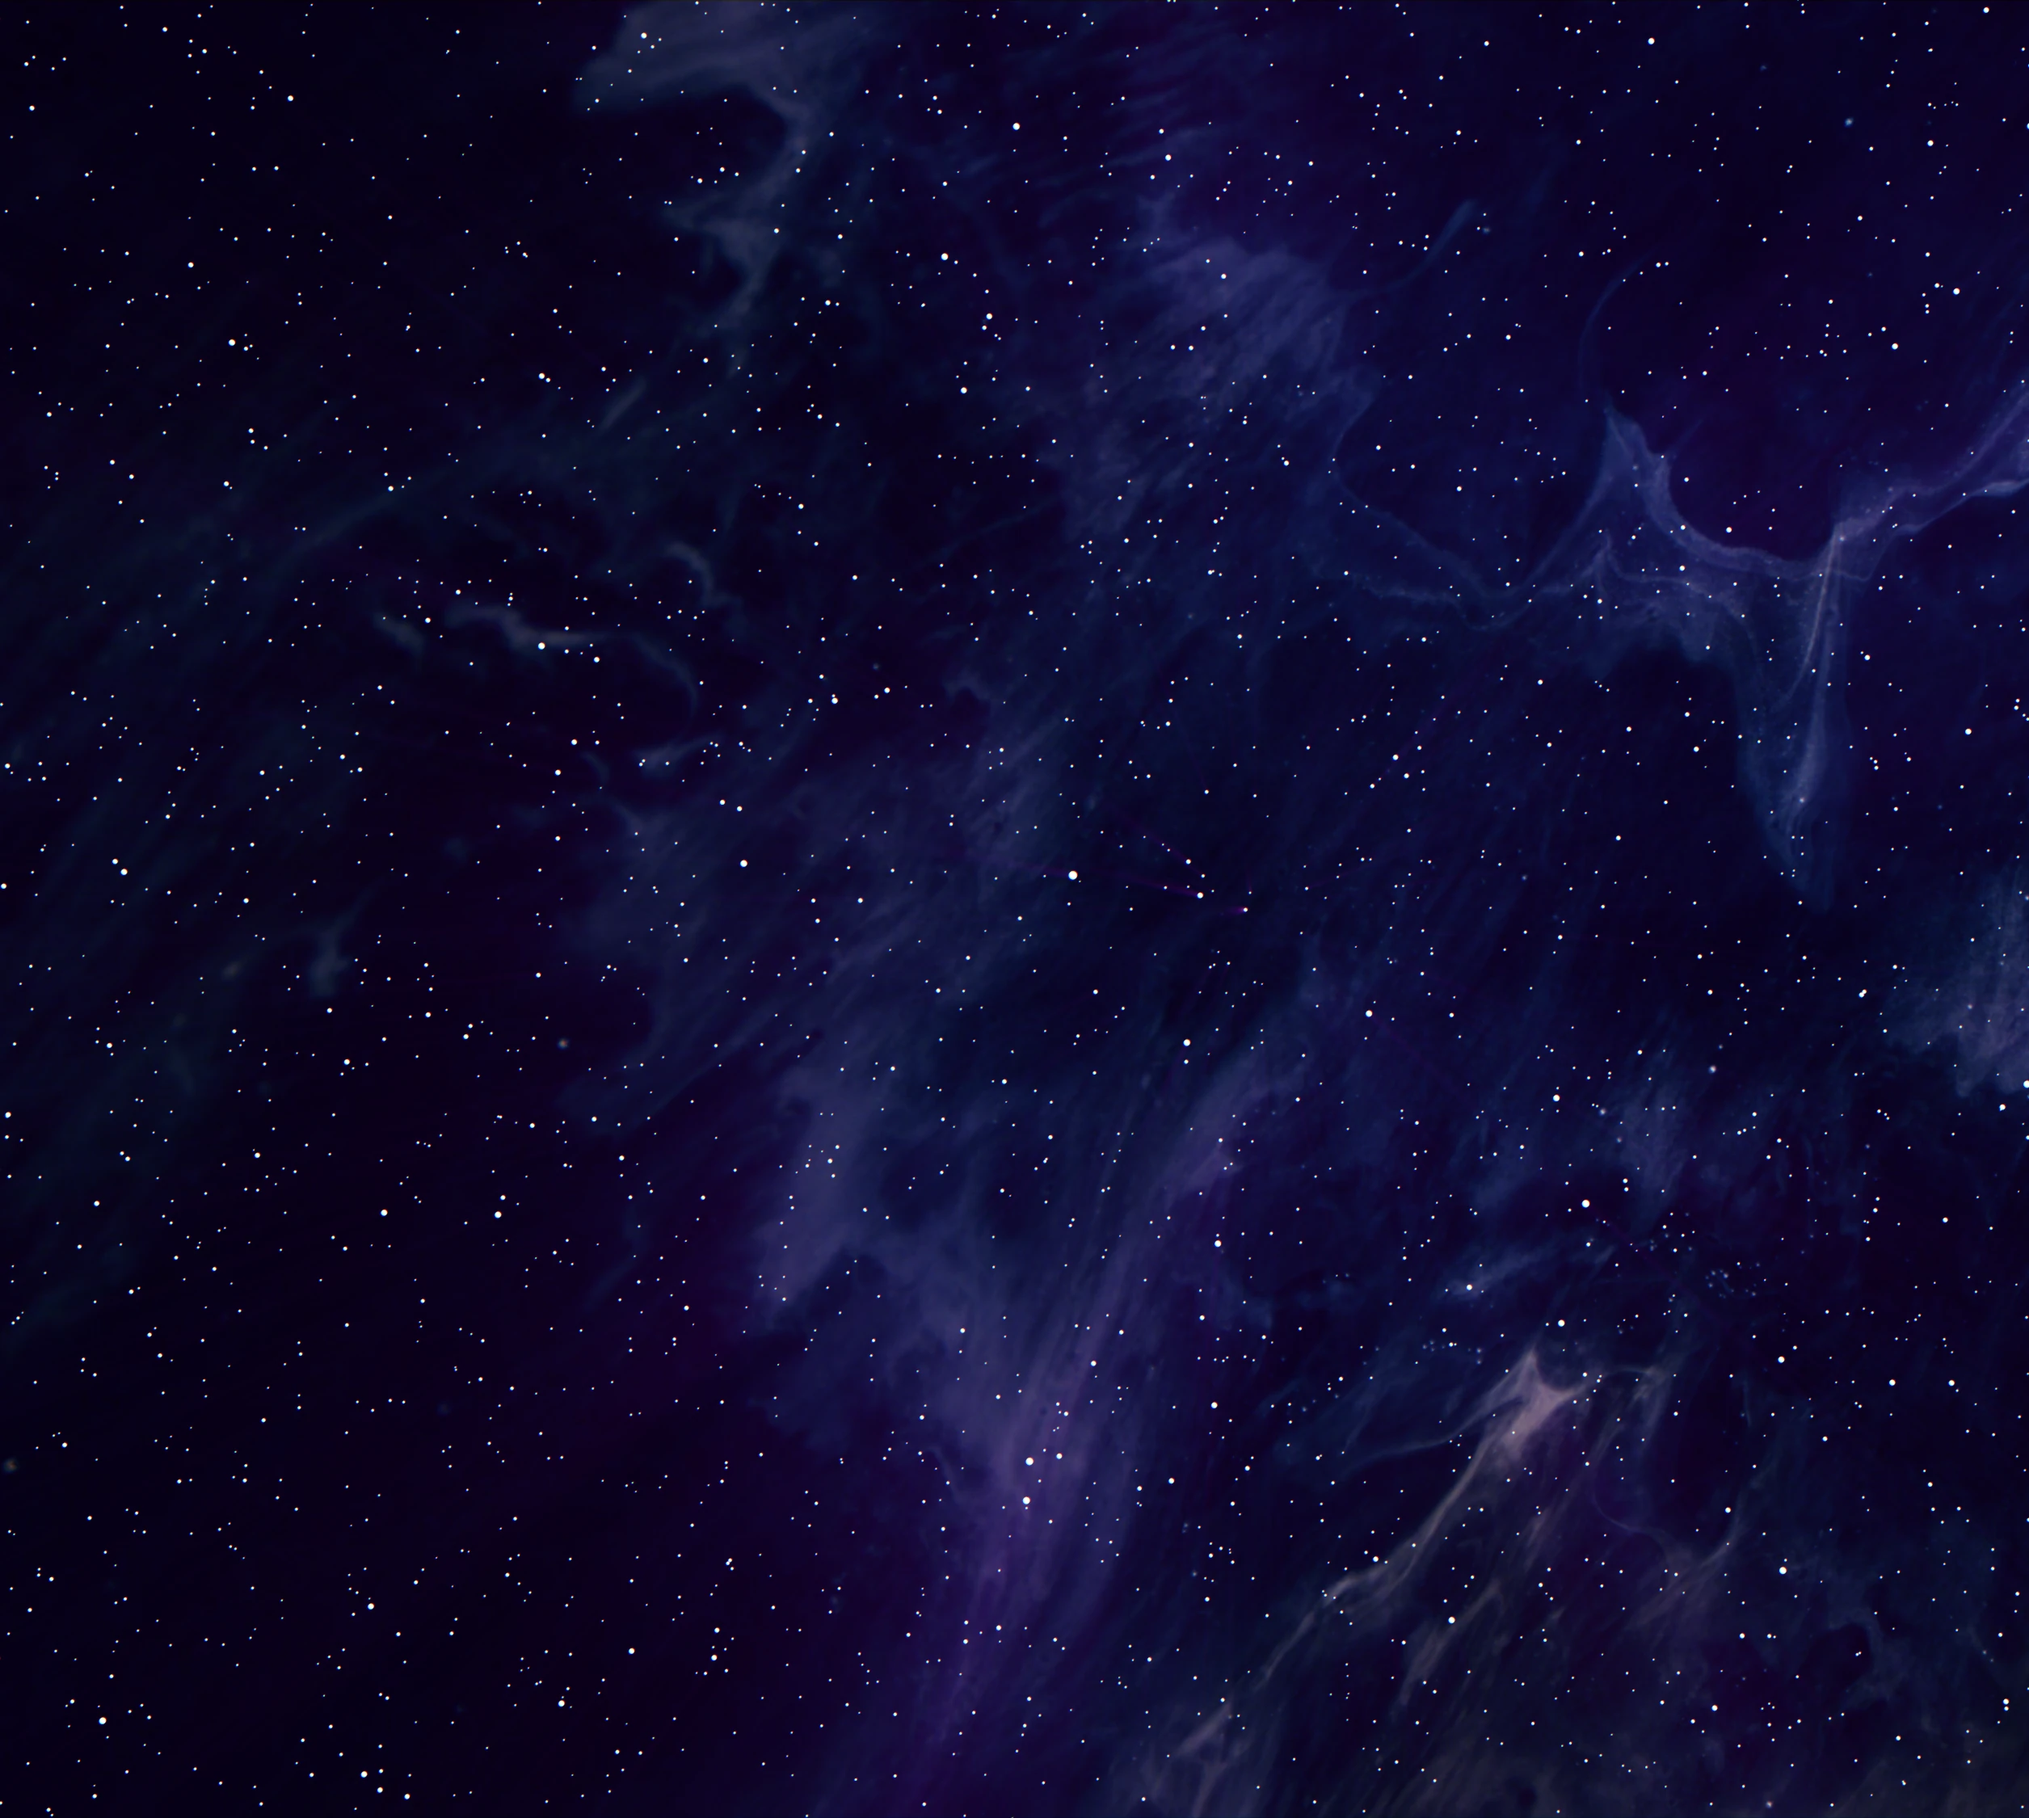
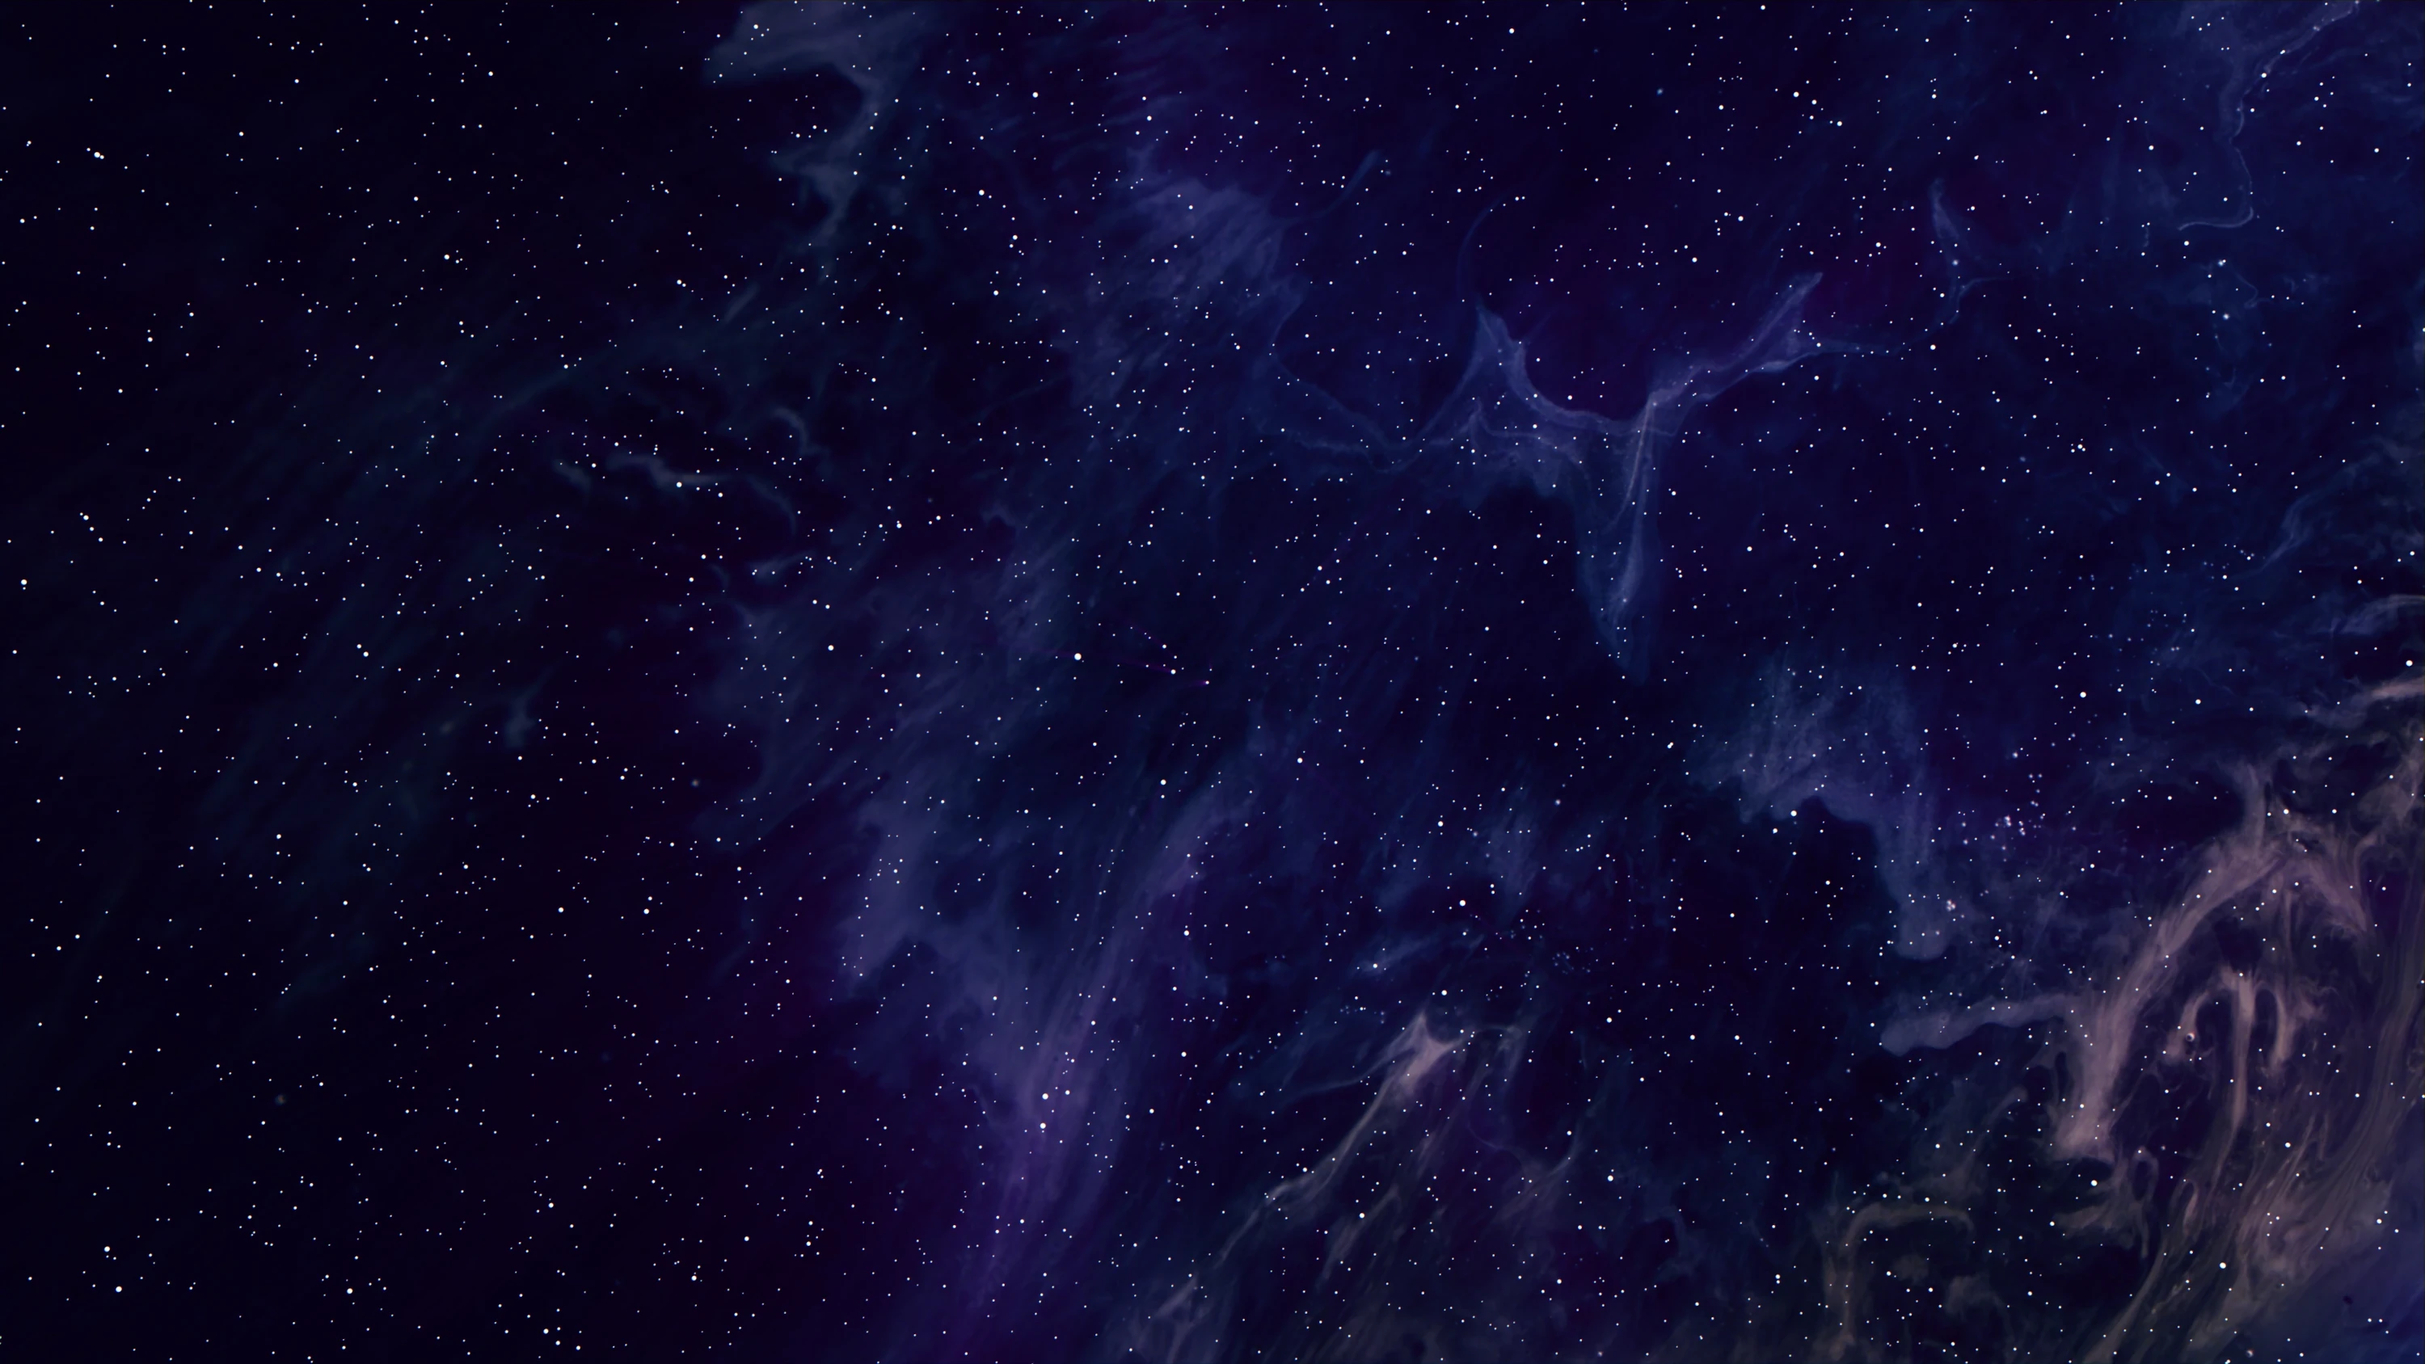
Readme update

diff --git a/src/style/Global.tsx b/src/style/Global.tsx
@@ -28,23 +28,23 @@ const GlobalStyle = createGlobalStyle`
 
   @media screen and (min-width: 769px) {
     body {
-      background: #000 repeat url(/images/home/background/wallpaper_hd.webp);
+      background: #000 repeat url(/images/home/background/wallpaper_l.webp);
       background-attachment: fixed;
       background-size: 120%;
     }
   }
 
-  /* @media screen and (min-width: 1336px) {
+  @media screen and (min-width: 1336px) {
     body {
-      background: repeat url(/images/home/background/wallpaper_sd.webp);
+      background: #000 repeat url(/images/home/background/wallpaper_sd.webp);
     }
   }
 
   @media screen and (min-width: 1920px) {
     body {
-      background: repeat url(/images/home/background/wallpaper_hd.webp);
+      background: #000 repeat url(/images/home/background/wallpaper_hd.webp);
     }
-  } */
+  }
 
   @media screen and (max-width: 768px) {
     body {

diff --git a/README.md b/README.md
@@ -1,12 +1,15 @@
-# 🥞 Pancake Frontend
+Repository for local dex development. Include a main page source code.
 
-[![Netlify Status](https://api.netlify.com/api/v1/badges/7bebf1a3-be7b-4165-afd1-446256acd5e3/deploy-status)](https://app.netlify.com/sites/pancake-prod/deploys)
+How to build :
 
-This project contains the main features of the pancake application.
+    Checkout to actual dev branch:
 
-If you want to contribute, please refer to the [contributing guidelines](./CONTRIBUTING.md) of this project.
+git checkout dev_070922_mobile
 
-## Documentation
+    yarn install (Build through yarn only!)
 
-- [Info](doc/Info.md)
-- [Cypress tests](doc/Cypress.md)
+    yarn start - debug
+
+    create .env file the same as .env.example (copy and rename)
+
+    yarn build
